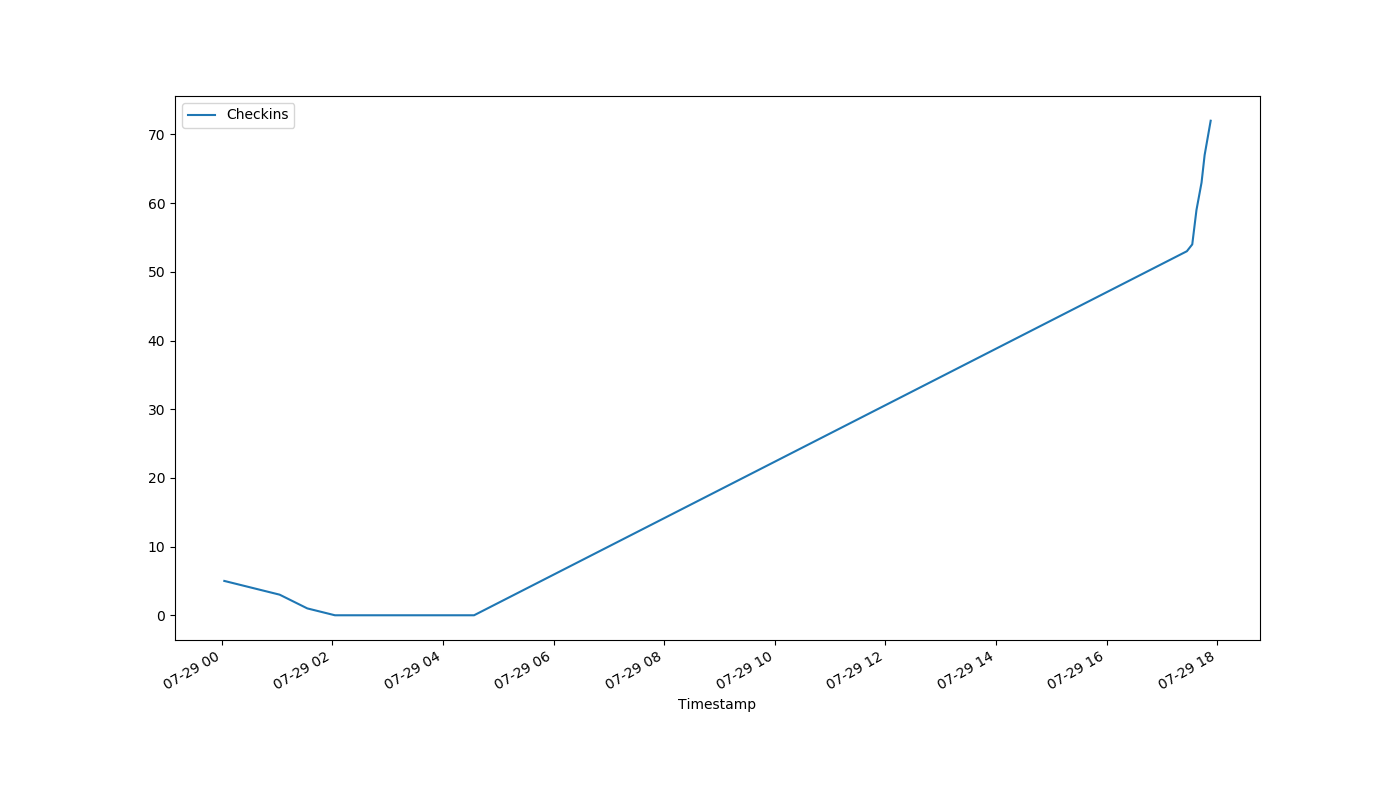
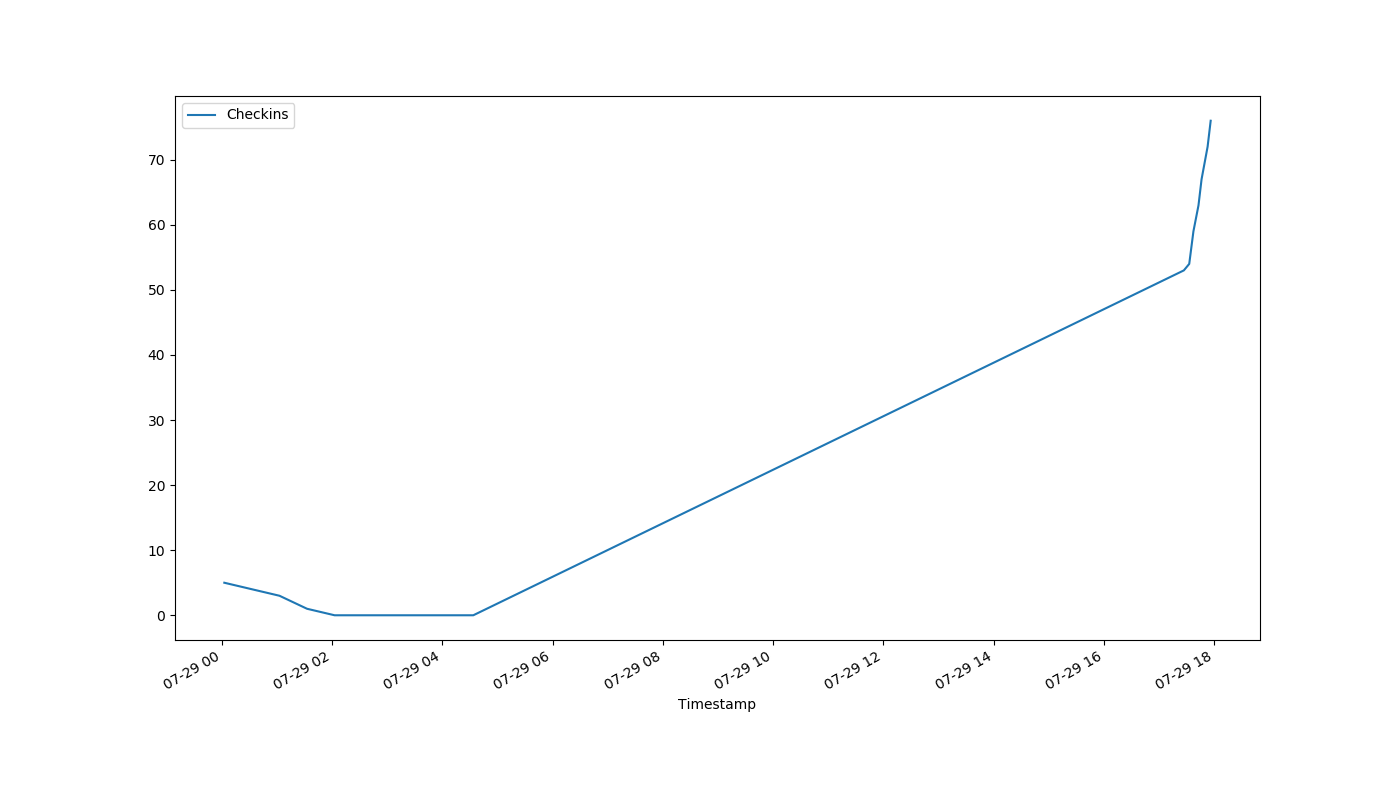
auto-Jul-29-17:58:23

diff --git a/index.html b/index.html
@@ -1,1 +1,1 @@
-<!DOCTYPE html><html><head><meta http-equiv="refresh" content="30"><link rel='stylesheet' href='holmcurrent.css'></head><body><p id='count'>72</p><div id='graph-wrap'><img id='graph' src='holmgraph-Jul-29.png'></div><p id='updated'>Last updated 17:53:00 / 17:52:45</p></body></html>
+<!DOCTYPE html><html><head><meta http-equiv="refresh" content="30"><link rel='stylesheet' href='holmcurrent.css'></head><body><p id='count'>76</p><div id='graph-wrap'><img id='graph' src='holmgraph-Jul-29.png'></div><p id='updated'>Last updated 17:57:00 / 17:56:06</p></body></html>
